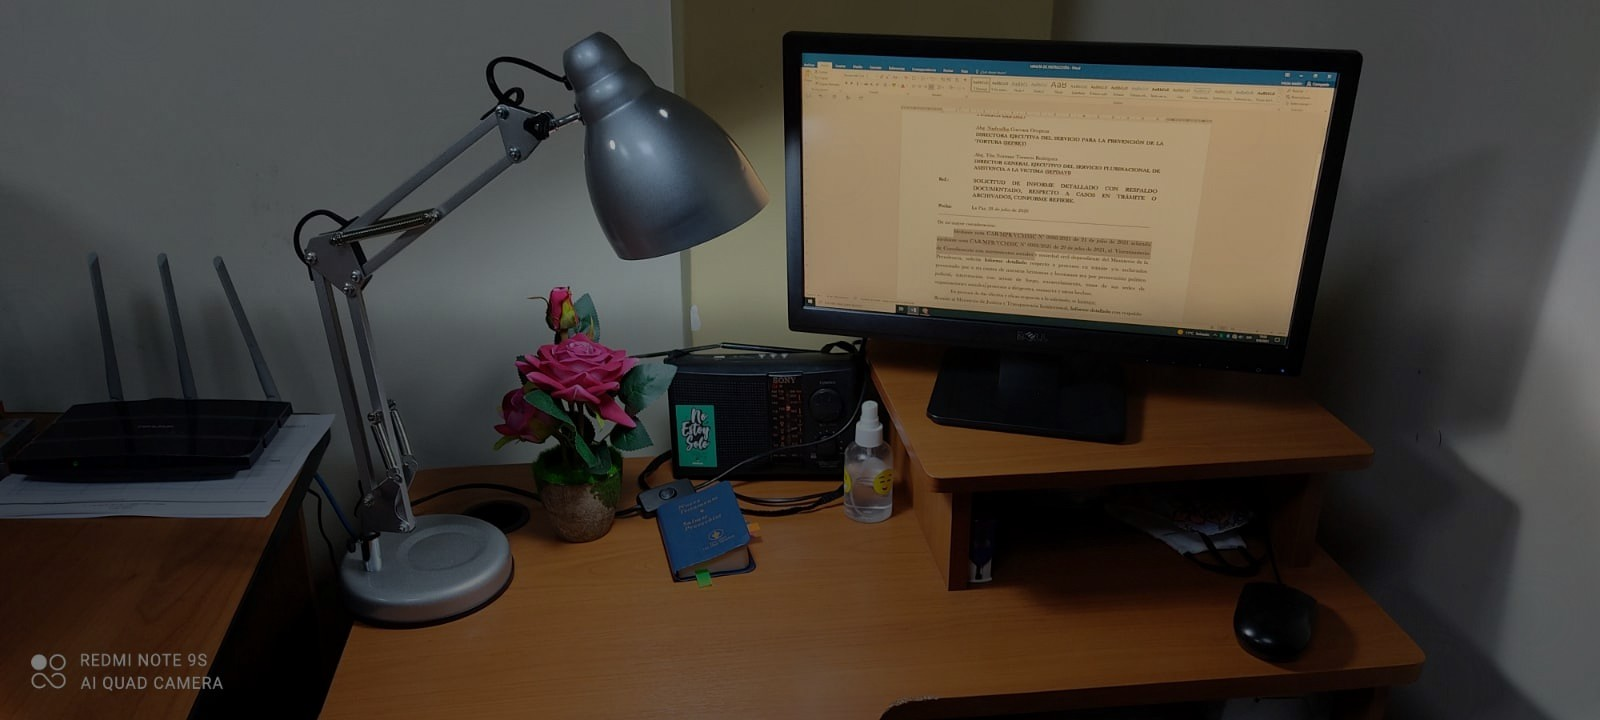
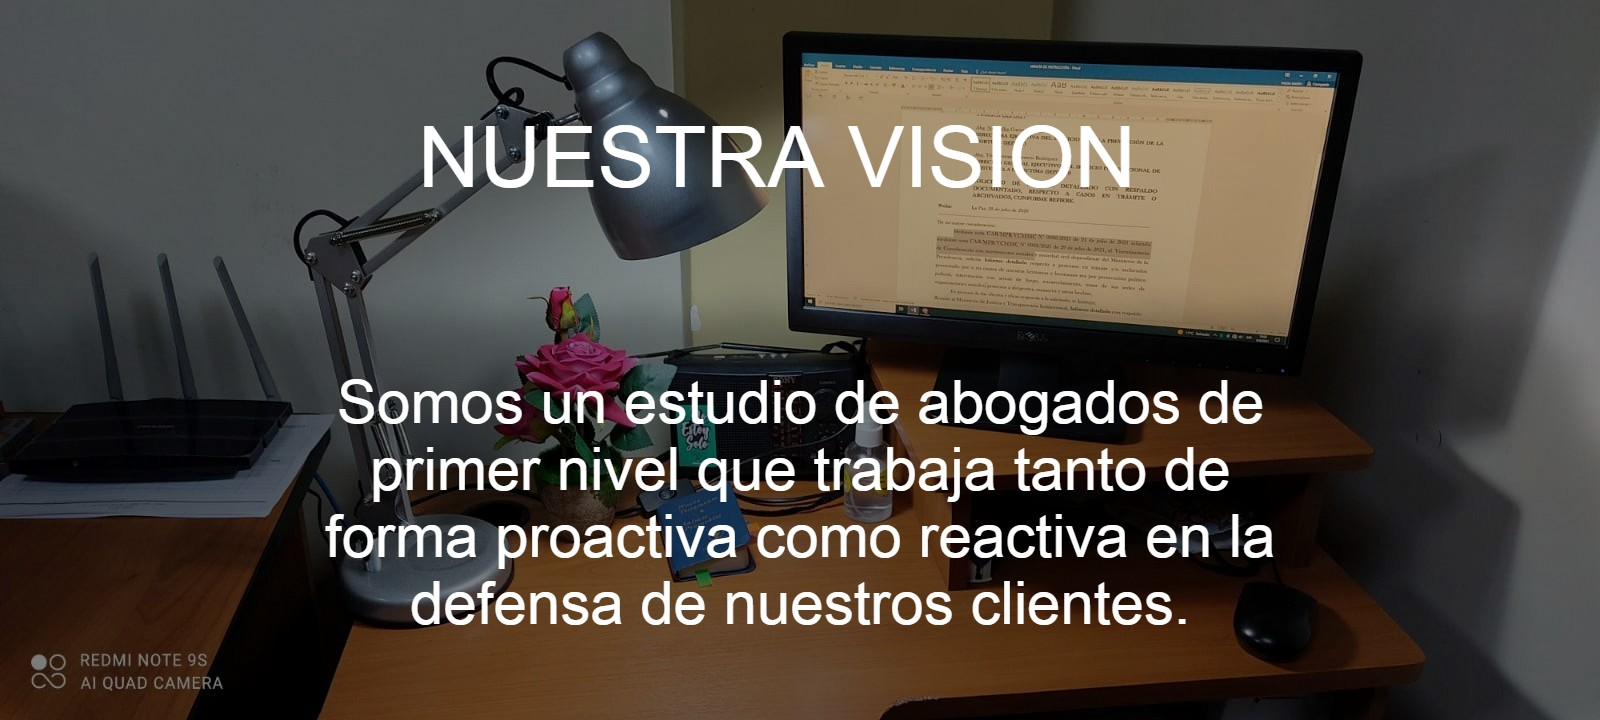
nuevo6

Changed region(s): [[0.1875, 0.5194, 0.8125, 0.8861], [0.25, 0.1528, 0.7188, 0.275]]

diff --git a/css/main.css b/css/main.css
@@ -2349,9 +2349,10 @@ shortcodes page css
 .container-mision{
     display:flex;
     position: relative;
-    justify-content: center;
+    justify-content:space-between;
     color: #fff;
     height: 400px;
+    margin-right: 10px;
     
 }
 
@@ -2359,50 +2360,16 @@ shortcodes page css
     width: 600px;
     height: 300px;
     object-fit: cover;
-    margin-right: 10px;
+    margin: 15px ;
     opacity: 0.8;
    
 }
-especialidad{
-    margin:10px auto;
+.especialidad{
+    margin-right:15px auto;
     
 }
-.misionh2{
-    text-align: center;
-    margin:5 auto;
-    color: #fff;
-    position: absolute;
-    transform:translate(30%,-700%);
-    margin-bottom:10px;
-}
-.visionh2{
-    text-align: center;
-    margin:5 auto;
-    color: #fff;
-    position: absolute;
-    transform:translate(30%,-700%); 
-    
-}
-.misionp{
-    text-align: center;
-    margin:5 auto;
-    width: 500px;
-    color: #fff;
-    position: absolute;
-    transform:translate(1%,-200%);
-    font-size: 20px;
-    
-}
-.visionp{
-    text-align: center;
-    margin:5 auto;
-    width: 500px;
-    color: #fff;
-    position: absolute;
-    transform:translate(1%,-150%);  
-    font-size: 20px;
-    margin-bottom:50px;
-}
+
+
 
 .container-boton-whatsap{
     background-color: #2e6329;

diff --git a/index.html b/index.html
@@ -160,13 +160,12 @@
                 <div class="container-mision">
                     <div class="especialidad">
                         <img src="images/gallery/mision1.jpg" alt="">   
-                        <h2 class="misionh2">NUESTRA MISION</h2>
-                        <p class="misionp">Somos un estudio de abogados de primer nivel que trabaja tanto de forma proactiva como reactiva en la defensa de nuestros clientes.</p>
+                        
+
                     </div>
                     <div class="especialidad">
                         <img src="images/gallery/vision1.jpg" alt="">
-                        <h2 class="visionh2" >NUESTRA VISION</h2>
-                        <p class="visionp">Ser reconocidos por el mercado –y por los directorios más prestigiosos- como un estudio líder en litigios civil-comercial, penal-económico, arbitrajes y consultoría legal.</p>
+                        
                     </div>
                 </div>
                 <div class="especialidad2">

diff --git a/css/responsive.css b/css/responsive.css
@@ -196,26 +196,17 @@
     display: inline-block;
   
   }
-  .mision img{
-    margin-left: 20px;
-    margin-top: 0px;
-  }
-  .vision img{
-    margin-top:5px;
-  }
+  
   .especialidad {
     text-align: center;
     max-width:100%;
        margin: 20px auto;
-       margin-bottom: 20px;
+       margin-bottom: 10px;
   }
-  .especialidad2 {
-    margin: 20px auto;
+  .especialidad2{
     margin-top: 170px;
-}
-.container-boton-whatsap{
-  right: 160px;
-}
+  }
+
 
   
 
